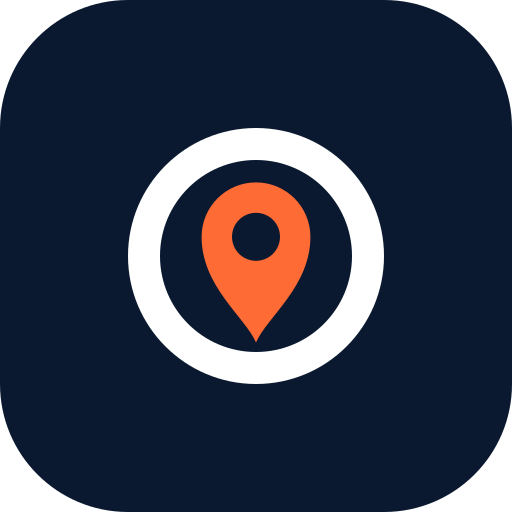
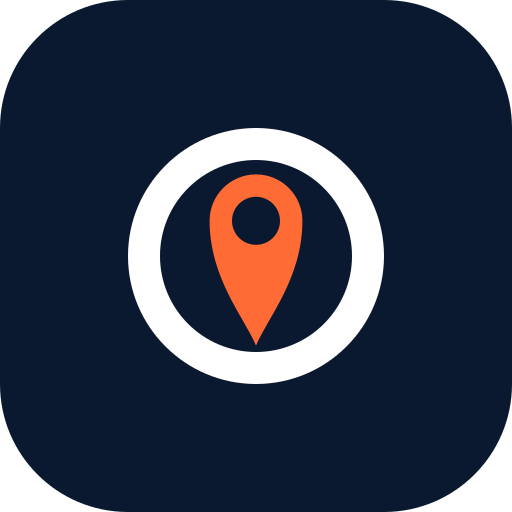
fix(brand): stronger pin silhouette inside the ring (#552 round 2)
Round 1 contained the pin inside the ring (head r=3.4 at (16, 14.8),
tip (16, 21.4), sampled max radius 5.4) and containment verified on
every surface — but in the traveller navbar/footer at ~30px the
near-disc head still read as a round target dot: no visible point.

Round 2 strengthens the silhouette while keeping containment:
- head shrinks to r=2.9 and rises to (16, 13.8);
- the taper lengthens to a tip at (16, 21.6) — sampled max radius
  5.6, still inside the ring's inner radius 6 (guard threshold 5.9,
  asserted by sampling in Logo.test.tsx);
- the navy centre dot follows the head (cy 13.8).

At-size renders (30px / 24px / 20px, sharp rasterisation of the
exact SVG) were assessed locally before this change: the point now
protrudes visibly below the head at navbar size. The old-geometry
render at 512px is pixel-identical to the previously shipped
icon.png, which validates the favicon pipeline: all four apps'
icon.png are regenerated from the new geometry (one identical file,
md5 1a98c672...).

All four copies of the geometry move together (shared Logo
component, API email mark, landing + traveller OG images) — the
Logo adoption/geometry test is updated to the new numbers and still
pins every copy. Tile, ring and colours unchanged.

Local gates: @ouiboo/ui jest 10/10 suites (56 tests), traveller
jest 37/37 (184), tsc clean, production builds green for traveller,
agency, admin, landing and api.

Changed region(s): [[0.375, 0.3438, 0.625, 0.625]]

diff --git a/packages/ui/Logo.test.tsx b/packages/ui/Logo.test.tsx
@@ -33,27 +33,29 @@ const LOCKUPS: Record<string, string> = {
 
 describe('Logo geometry (Session #3 P0-4)', () => {
   // Rework (#552, verification FAIL 2026-10-28): the ring is an annulus
-  // with INNER radius 6 around centre (16, 16). The previous pin (head
+  // with INNER radius 6 around centre (16, 16). The original pin (head
   // r=4.6 at (16, 14.4), tip y=23.2 = radius 7.2) painted over the ring
-  // and read as a dot bursting out of the circle. The pin must stay
-  // CONTAINED inside the ring: every point within radius < 6 of
-  // (16, 16). Draft geometry, verified numerically by sampling the
-  // path: head r=3.4 centred (16, 14.8), tip (16, 21.4) at radius 5.4,
-  // sampled max radius 5.40 < 5.9.
-  const pinPath = logoSource.match(/d="(M16 21\.4[^"]+)"/);
+  // and read as a dot bursting out of the circle. Round 1 contained it
+  // (head r=3.4 at (16, 14.8), tip (16, 21.4), max radius 5.4) but the
+  // near-disc head still read as a target dot in the traveller navbar
+  // at ~30px. Round 2 strengthens the silhouette — smaller head
+  // (r=2.9) raised to (16, 13.8), longer taper to the tip at
+  // (16, 21.6) — while staying CONTAINED: sampled max radius 5.6,
+  // inside the ring's inner radius 6 (guard threshold 5.9).
+  const pinPath = logoSource.match(/d="(M16 21\.6[^"]+)"/);
 
-  it('pin path is present with tip at (16, 21.4) — radius 5.4 from centre', () => {
+  it('pin path is present with tip at (16, 21.6) — radius 5.6 from centre', () => {
     expect(pinPath).not.toBeNull();
-    expect(Math.hypot(16 - 16, 21.4 - 16)).toBeLessThan(5.9);
+    expect(Math.hypot(16 - 16, 21.6 - 16)).toBeLessThan(5.9);
   });
 
-  it('pin head radius is 3.4 units centred at (16, 14.8)', () => {
+  it('pin head radius is 2.9 units centred at (16, 13.8)', () => {
     const m = logoSource.match(/A(\d+(?:\.\d+)?) \d+(?:\.\d+)? 0 1 1/);
     expect(m).not.toBeNull();
-    expect(parseFloat(m![1])).toBeCloseTo(3.4);
-    // Head top (14.8 - 3.4 = 11.4) is the farthest head point from the
-    // ring centre: radius 4.6, still inside the ring's inner radius 6.
-    expect(16 - (14.8 - 3.4)).toBeLessThan(6);
+    expect(parseFloat(m![1])).toBeCloseTo(2.9);
+    // Head top (13.8 - 2.9 = 10.9): radius 5.1 from the ring centre,
+    // still inside the ring's inner radius 6.
+    expect(16 - (13.8 - 2.9)).toBeLessThan(6);
   });
 
   it('every sampled point of the pin stays within radius < 5.9 of (16, 16)', () => {
@@ -72,19 +74,19 @@ describe('Logo geometry (Session #3 P0-4)', () => {
       return pts;
     };
     const pts = [
-      ...cubic([16, 21.4], [15.3, 19.8], [12.6, 17.9], [12.6, 14.8]),
-      ...cubic([19.4, 14.8], [19.4, 17.9], [16.7, 19.8], [16, 21.4]),
+      ...cubic([16, 21.6], [15.3, 19.9], [13.1, 17.4], [13.1, 13.8]),
+      ...cubic([18.9, 13.8], [18.9, 17.4], [16.7, 19.9], [16, 21.6]),
     ];
     for (let i = 0; i <= 200; i++) {
       const a = Math.PI - (Math.PI * i) / 200;
-      pts.push([16 + 3.4 * Math.cos(a), 14.8 - 3.4 * Math.sin(a)]);
+      pts.push([16 + 2.9 * Math.cos(a), 13.8 - 2.9 * Math.sin(a)]);
     }
     const maxRadius = Math.max(...pts.map(([x, y]) => Math.hypot(x - 16, y - 16)));
     expect(maxRadius).toBeLessThan(5.9);
   });
 
   it('keeps the navy centre dot of the adopted concept', () => {
-    expect(logoSource).toContain('<circle cx="16" cy="14.8" r="1.5" fill="#0A192F" />');
+    expect(logoSource).toContain('<circle cx="16" cy="13.8" r="1.5" fill="#0A192F" />');
   });
 
   it('no other copy of the pin geometry still paints over the ring', () => {
@@ -95,8 +97,9 @@ describe('Logo geometry (Session #3 P0-4)', () => {
     ];
     for (const file of copies) {
       const src = repoFile(file);
-      expect(src).toContain('M16 21.4C15.3 19.8 12.6 17.9 12.6 14.8A3.4 3.4 0 1 1 19.4 14.8');
+      expect(src).toContain('M16 21.6C15.3 19.9 13.1 17.4 13.1 13.8A2.9 2.9 0 1 1 18.9 13.8');
       expect(src).not.toContain('M16 23.2');
+      expect(src).not.toContain('M16 21.4');
     }
   });
 });

diff --git a/packages/ui/Logo.tsx b/packages/ui/Logo.tsx
@@ -27,18 +27,23 @@ export const Logo = React.forwardRef<SVGSVGElement, LogoProps>(
             (head r=4.6 centred (16, 14.4), tip y=23.2) painted OVER the
             white ring — the ring is an annulus with inner radius 6
             around (16, 16), and the tip sat at radius 7.2, so the pin
-            read as an orange dot bursting out of the circle. Redrawn
-            CONTAINED inside the ring: head r=3.4 centred (16, 14.8),
-            tip at (16, 21.4) — every point of the pin stays within
-            radius 5.4 of (16, 16), inside the ring's inner radius 6 —
-            bold and centred so it still reads as a pin at 20–35px,
-            with the navy centre dot (r=1.5). Tile, ring and colours
+            read as an orange dot bursting out of the circle.
+            Round 1 contained it (head r=3.4 at (16, 14.8), tip
+            (16, 21.4), max radius 5.4) — but at the traveller navbar's
+            ~30px the near-disc head still read as a target dot.
+            Round 2 strengthens the SILHOUETTE while staying
+            contained: smaller head (r=2.9) raised to (16, 13.8) and a
+            longer taper to the tip at (16, 21.6) — sampled max radius
+            5.6, still inside the ring's inner radius 6 — so the point
+            protrudes visibly below the head at 20–30px (at-size
+            renders verified locally before deploy). Navy centre dot
+            (r=1.5) follows the head. Tile, ring and colours
             unchanged. */}
         <path
-          d="M16 21.4C15.3 19.8 12.6 17.9 12.6 14.8A3.4 3.4 0 1 1 19.4 14.8C19.4 17.9 16.7 19.8 16 21.4Z"
+          d="M16 21.6C15.3 19.9 13.1 17.4 13.1 13.8A2.9 2.9 0 1 1 18.9 13.8C18.9 17.4 16.7 19.9 16 21.6Z"
           fill="#FF6B35"
         />
-        <circle cx="16" cy="14.8" r="1.5" fill="#0A192F" />
+        <circle cx="16" cy="13.8" r="1.5" fill="#0A192F" />
       </svg>
     );
   }

diff --git a/apps/api/src/email/email-template.ts b/apps/api/src/email/email-template.ts
@@ -96,7 +96,7 @@ type EmailLayoutOptions = {
  * pin, navy centre dot) inlined as SVG, the only image form email
  * clients render without a hosted asset.
  */
-export const EMAIL_PIN_LOGO_SVG = `<svg width="36" height="36" viewBox="0 0 32 32" fill="none" xmlns="http://www.w3.org/2000/svg" role="img" aria-label="Ouiboo"><rect width="32" height="32" rx="8" fill="#0A192F"/><path d="M16 8C11.5817 8 8 11.5817 8 16C8 20.4183 11.5817 24 16 24C20.4183 24 24 20.4183 24 16C24 11.5817 20.4183 8 16 8ZM16 22C12.6863 22 10 19.3137 10 16C10 12.6863 12.6863 10 16 10C19.3137 10 22 12.6863 22 16C22 19.3137 19.3137 22 16 22Z" fill="white"/><path d="M16 21.4C15.3 19.8 12.6 17.9 12.6 14.8A3.4 3.4 0 1 1 19.4 14.8C19.4 17.9 16.7 19.8 16 21.4Z" fill="#FF6B35"/><circle cx="16" cy="14.8" r="1.5" fill="#0A192F"/></svg>`
+export const EMAIL_PIN_LOGO_SVG = `<svg width="36" height="36" viewBox="0 0 32 32" fill="none" xmlns="http://www.w3.org/2000/svg" role="img" aria-label="Ouiboo"><rect width="32" height="32" rx="8" fill="#0A192F"/><path d="M16 8C11.5817 8 8 11.5817 8 16C8 20.4183 11.5817 24 16 24C20.4183 24 24 20.4183 24 16C24 11.5817 20.4183 8 16 8ZM16 22C12.6863 22 10 19.3137 10 16C10 12.6863 12.6863 10 16 10C19.3137 10 22 12.6863 22 16C22 19.3137 19.3137 22 16 22Z" fill="white"/><path d="M16 21.6C15.3 19.9 13.1 17.4 13.1 13.8A2.9 2.9 0 1 1 18.9 13.8C18.9 17.4 16.7 19.9 16 21.6Z" fill="#FF6B35"/><circle cx="16" cy="13.8" r="1.5" fill="#0A192F"/></svg>`
 
 export function renderEmail({ title, preheader, content, footerHtml, locale }: EmailLayoutOptions): string {
   const year = new Date().getFullYear()

diff --git a/apps/landing/src/lib/og-image.tsx b/apps/landing/src/lib/og-image.tsx
@@ -38,10 +38,10 @@ export function renderOgImage(locale: SupportedLanguage) {
                 fill="white"
               />
               <path
-                d="M16 21.4C15.3 19.8 12.6 17.9 12.6 14.8A3.4 3.4 0 1 1 19.4 14.8C19.4 17.9 16.7 19.8 16 21.4Z"
+                d="M16 21.6C15.3 19.9 13.1 17.4 13.1 13.8A2.9 2.9 0 1 1 18.9 13.8C18.9 17.4 16.7 19.9 16 21.6Z"
                 fill="#FF6B35"
               />
-              <circle cx="16" cy="14.8" r="1.5" fill="#0A192F" />
+              <circle cx="16" cy="13.8" r="1.5" fill="#0A192F" />
             </svg>
             <div style={{ color: '#FF6B35', display: 'flex', fontSize: 42, fontWeight: 800 }}>
               Ouiboo

diff --git a/apps/traveler/src/app/opengraph-image.tsx b/apps/traveler/src/app/opengraph-image.tsx
@@ -41,9 +41,9 @@ export default function OpenGraphImage() {
               />
               <path
                 fill="#FF6B35"
-                d="M16 21.4C15.3 19.8 12.6 17.9 12.6 14.8A3.4 3.4 0 1 1 19.4 14.8C19.4 17.9 16.7 19.8 16 21.4Z"
+                d="M16 21.6C15.3 19.9 13.1 17.4 13.1 13.8A2.9 2.9 0 1 1 18.9 13.8C18.9 17.4 16.7 19.9 16 21.6Z"
               />
-              <circle fill="#0A192F" cx="16" cy="14.8" r="1.5" />
+              <circle fill="#0A192F" cx="16" cy="13.8" r="1.5" />
             </svg>
             <div style={{ color: '#FF6B35', display: 'flex', fontSize: 42, fontWeight: 800 }}>Ouiboo</div>
           </div>
